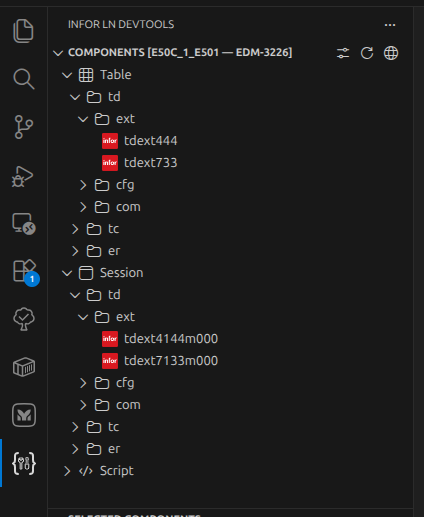
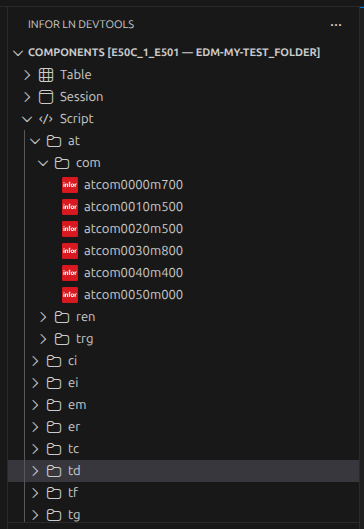
feat: update module definitions in mock server for improved structure and additional packages

diff --git a/mock-server/server.js b/mock-server/server.js
@@ -98,15 +98,7 @@ const components = [
   }))
 ]
 
-const MODULES = {
-  "Session": [
-    { package: "td", modules: ["ext", "cfg"] },
-    { package: "tc", modules: ["itm"] }
-  ],
-  "Table": [
-    { package: "td", modules: ["ext"] }
-  ]
-};
+const MODULES = {"Table":[{"package":"ci","module":["eih","ext","sli"]},{"package":"ei","module":["com","eqp","ext","prt"]},{"package":"em","module":["com"]},{"package":"er","module":["com","ert","ext"]},{"package":"tc","module":["arc","bod","cmw","cnh","com","crn","dsn","dvu","emm","ext","hit","hyl","ibd","kbl","kbt","kei","kme","kmp","kom","kth","mcf","mcs","mgn","sng","sod","thk","trc","tre","trm","tvh","utl","vol","wfl"]},{"package":"td","module":["ecp","ert","ext","ipu","pcg","pur","sls","tre","tst","wfl"]},{"package":"tf","module":["acp","acr","cmg","dvu","eai","ecp","ert","ett","ext","fam","fbs","fst","gld","rec","tst"]},{"package":"tg","module":["brg","ext","wms"]},{"package":"ti","module":["bom","cpr"]},{"package":"tp","module":["ext","pdm","ptc"]},{"package":"ts","module":["cfg","clm","ctm","ert","ext","hra","mdm","soc","spc"]},{"package":"wh","module":["ert","ext","ina","inh","inp","inr","ltc","pln","wmd"]},{"package":"xi","module":["api","bde","bom","cat","cmw","cnh","com","crn","dmo","dsn","ext","fit","ftl","hit","hyl","int","jcb","jhd","kbl","kbt","kei","kme","kmp","kth","mcf","oii","pur","ros","sng","ter","thk","tku","toy","tst","tvh","utl","vol","wbh"]}],"Session":[{"package":"at","module":["com","ren"]},{"package":"ci","module":["arc","ecp","eih","ext","sli"]},{"package":"ei","module":["com","ecp","eqp","ext","prt","ren"]},{"package":"em","module":["com","cor","ext"]},{"package":"er","module":["arc","com","ecp","ert","ext"]},{"package":"tc","module":["arc","bod","cmw","cnh","com","cor","crn","dsn","dvu","ecp","emm","ext","hit","hyl","ibd","kbl","kbt","kei","kme","kmp","kom","kth","mcf","mcs","mgn","sod","thk","trc","tre","tst","tvh","utl","vol","wfl"]},{"package":"td","module":["arc","dvu","ecp","ext","ipu","isa","mmt","pcg","pur","sls","tre","trg","tst","wfl"]},{"package":"tf","module":["acp","acr","arc","cat","cmg","dvu","eai","ecp","ert","ext","fam","fbs","fst","gld","rec","tre","tst"]},{"package":"tg","module":["brg","ext"]},{"package":"ti","module":["bom","cpr","hra","ipd","sfc","trp"]},{"package":"tp","module":["ecp","ext","pdm","pss","ptc","tst"]},{"package":"ts","module":["arc","cfg","clm","ctm","ecp","ert","ext","hra","mdm","oes","soc","spc","tre"]},{"package":"wh","module":["arc","ecp","ext","ina","inh","inp","inr","ltc","pln","tre","wmd"]},{"package":"xi","module":["api","arc","bde","bom","cat","cmw","cnh","com","crn","dmo","dsn","ecp","ext","fit","ftl","hit","hyl","int","jcb","jhd","kbl","kbt","kei","kme","kmp","kth","kws","mcf","oii","pur","ros","ter","thk","tku","toy","tst","tvh","utl","vol","wbh"]}],"Script":[{"package":"at","module":["com","ren","trg"]},{"package":"ci","module":["arc","ecp","eih","ext","int","sli"]},{"package":"ei","module":["com","ecp","eqp","ext","prt","ren"]},{"package":"em","module":["com","cor","ext"]},{"package":"er","module":["arc","com","ecp","ert","ext","fam","int"]},{"package":"tc","module":["arc","aur","bde","bod","boi","ccp","cmw","cnh","com","cor","cri","dsn","dvu","ecp","emm","ext","fin","hit","hyl","ibd","int","kbl","kbt","kei","kme","kmp","kom","kth","mcf","mcs","mgn","mig","pct","pmc","sod","stl","tcs","thk","tls","trc","tre","trn","tst","tvh","utl","vol","wfl","zzz"]},{"package":"td","module":["arc","boi","cms","cor","dvu","ecp","ext","int","ipu","isa","mmt","pcg","pst","pur","ron","sls","smi","tre","trg","tst","wfl"]},{"package":"tf","module":["acp","acr","arc","boi","cat","cmg","cor","dvu","eai","ecp","ert","ext","fam","fbs","fst","gld","int","rec","tre","tst"]},{"package":"tg","module":["brg","ext","int","wms"]},{"package":"ti","module":["bom","cpr","cst","edm","hra","int","ipd","pcf","pcs","sfc","trp"]},{"package":"tp","module":["boi","cor","ecp","ext","hrs","int","pdm","pin","ppc","pss","ptc","tst"]},{"package":"ts","module":["arc","boi","cfg","clm","cor","ctm","ecp","epc","ert","ext","hra","int","mdm","oes","soc","spc","tre","tst"]},{"package":"wh","module":["arc","boi","cor","ecp","esp","ext","ina","inh","inp","inr","int","ltc","pln","tre","tst","whm","wmd"]},{"package":"xi","module":["api","arc","bde","boi","bom","cat","cmw","cnh","com","crn","dmo","dsn","ecp","ext","fit","ftl","hit","hyl","int","jcb","jhd","kbl","kbt","kei","kme","kmp","kth","kus","kws","mcf","oii","pur","ros","sls","tax","ter","thk","tku","toy","tst","tvh","utl","vol","wbh"]}]};
 
 /**
  * ENDPOINTS
